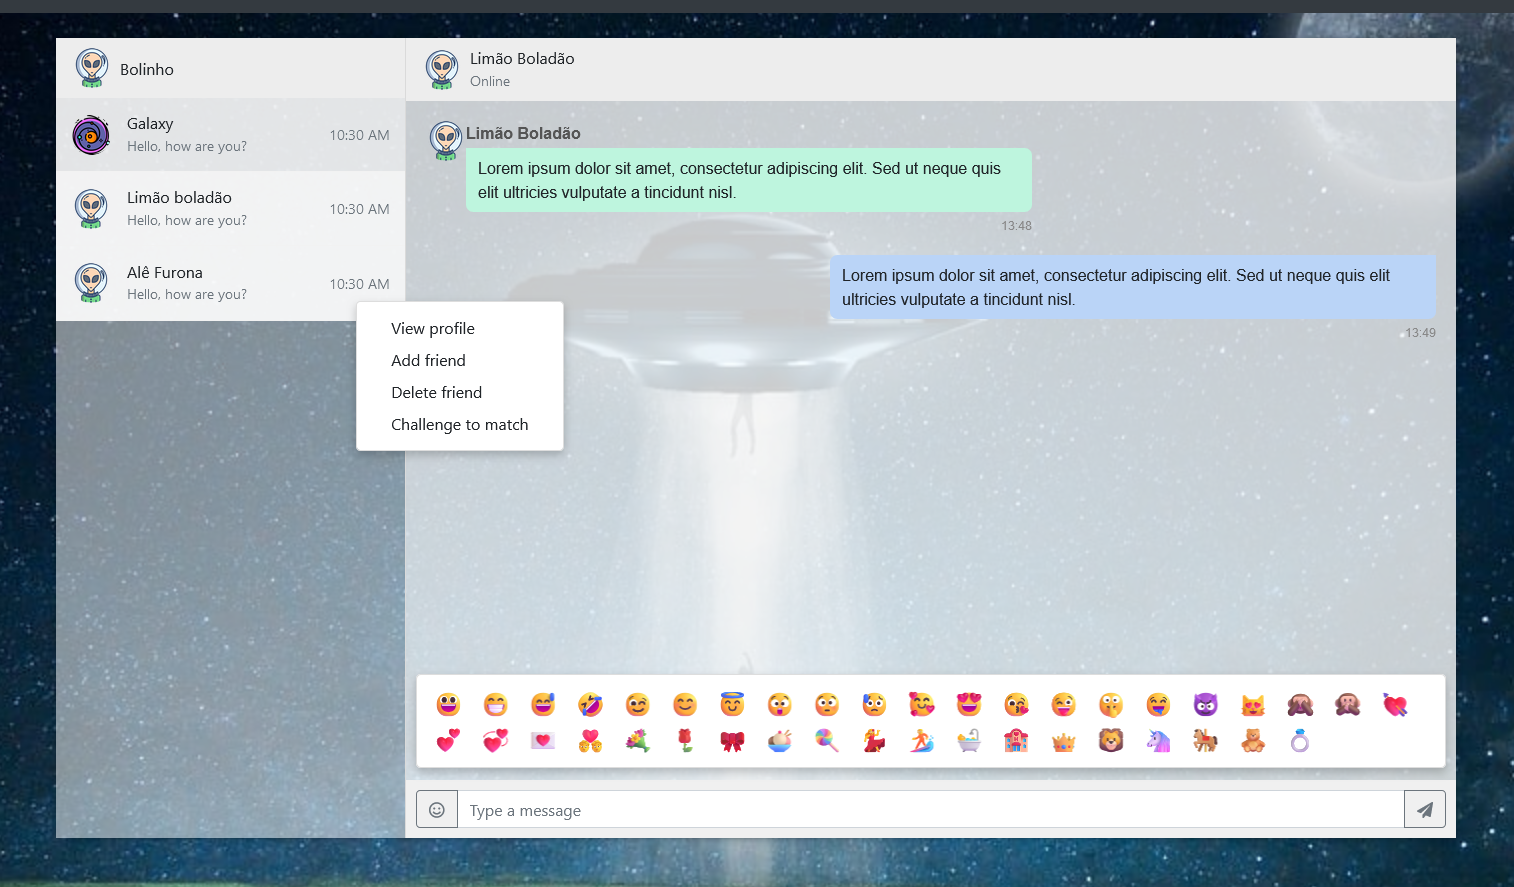
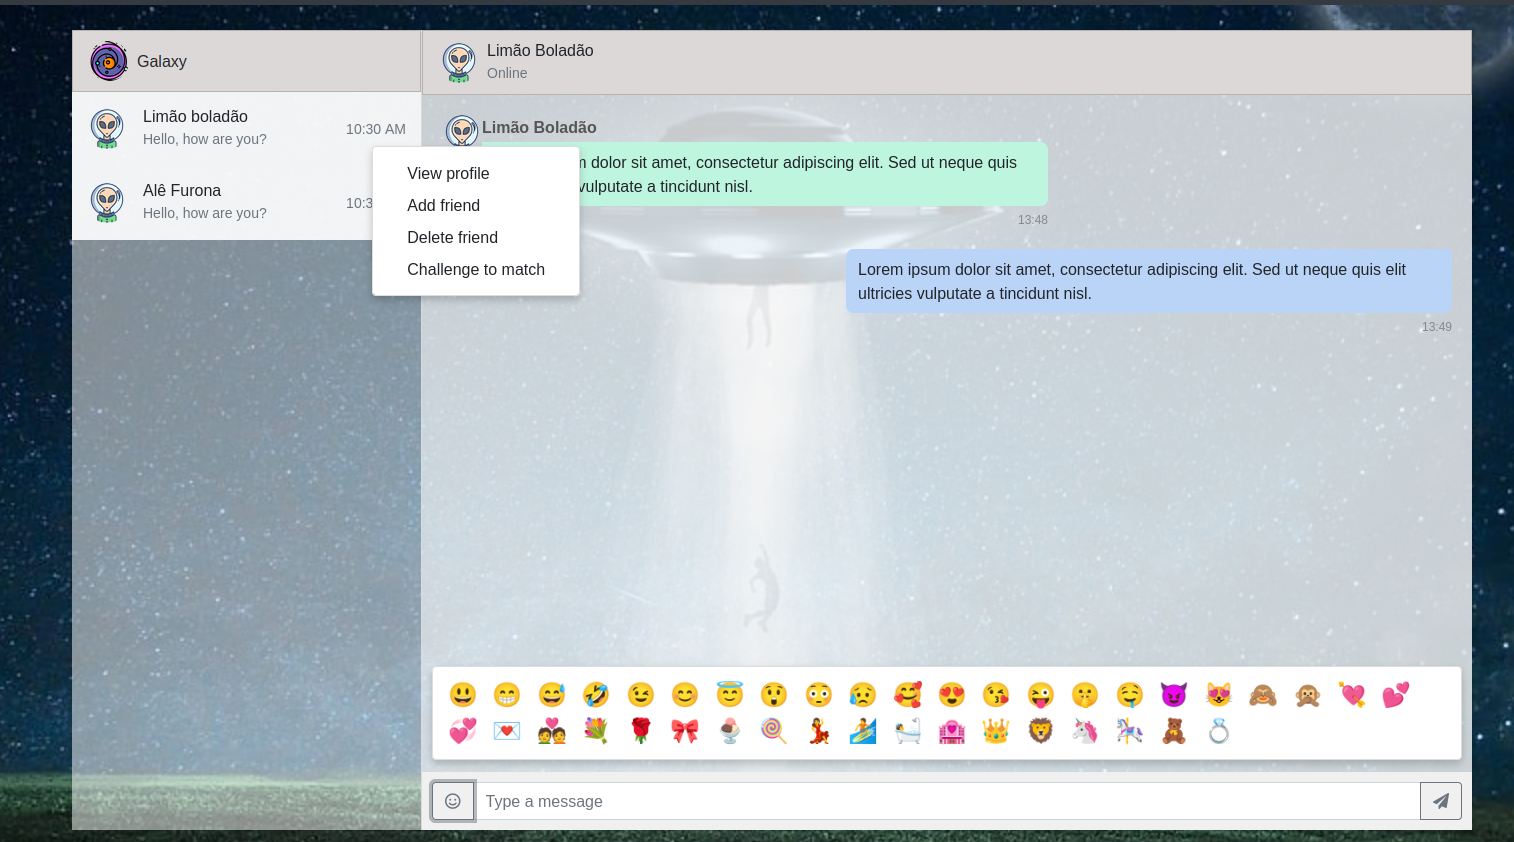
atualizando chat

Changed region(s): [[0.0, 0.0, 1.0, 1.0]]

diff --git a/README.md b/README.md
@@ -17,7 +17,7 @@ Front-End do projeto ft_transcendence da 42 School
 - ✅ fragment perfil público
 - ✅ fragment histórico partidas
 - 🚧 fragment torneio
-- 🚧 fragment chat
+- ✅ fragment chat
 - ✅ fragment badges
 - 🚧 fragment match
 
@@ -54,7 +54,7 @@ Front-End do projeto ft_transcendence da 42 School
 ![.](preview/tournament2.png)
 ![.](preview/tournament3.png)
 
-## 🚧FRAGMENT CHAT
+## FRAGMENT CHAT
 ![.](preview/chat.png)
 
 ## FRAGMENT BADGES
